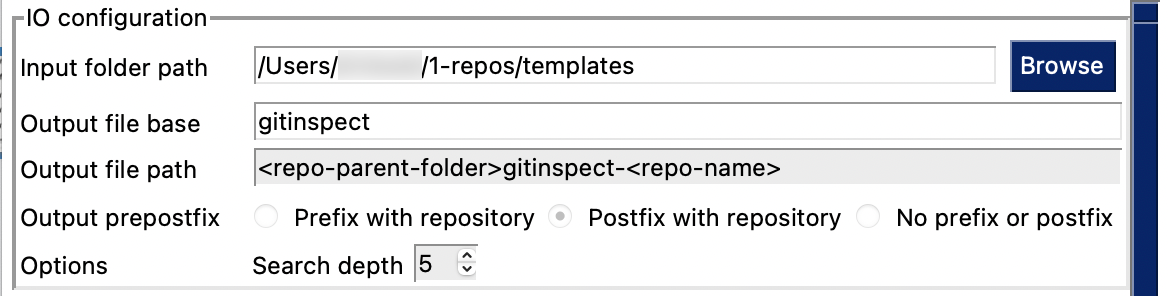
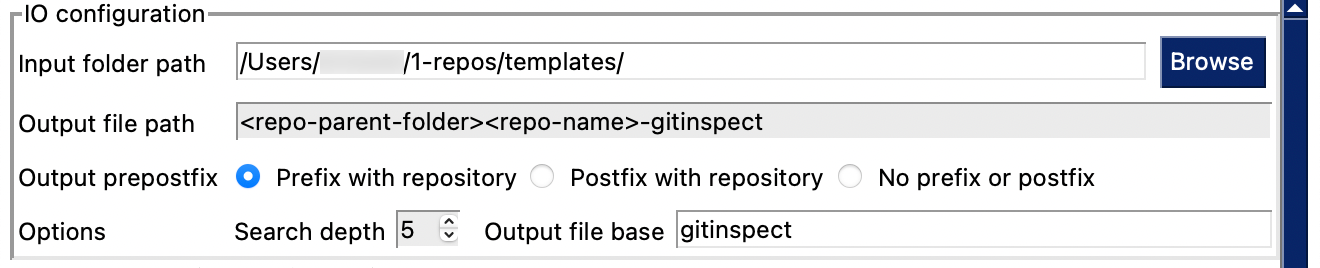
Complete redesign GUI window
- First step in updating text

Changed region(s): [[0.0, 0.0, 1.0, 1.0]]

diff --git a/docs/source/gui.rst b/docs/source/gui.rst
@@ -11,47 +11,62 @@ Below, a picture of the complete GUI on macOS.
 
 The two main parts of the GUI are:
 
-1. The grey input part at the top where the options are defined. This part can
+1. The input part where the options are defined. This part can
    be scrolled up and down using the top scroll bar at the right.
-2. The white console output part, where progress output is presented to the user
+2. The console output part, where progress output is presented to the user
    while the repositories are analysed. The console has its own scrollbar.
 
 Top row buttons
 ---------------
-This row is unique to the GUI. It has the following buttons:
 
 Execute
-  Execute the analysis, using the parameters given in the GUI.
-
-Save
-  Save all settings specified in the GUI.
+  Start the analysis, using the parameters given in the GUI.
 
 Clear
-  Clear the console, which is the textual output box at the end of the GUI.
+  Clear the console, the textual output box at the bottom.
+
+Save
+  Save all settings specified in the GUI to the currently active settings file.
+
+Save As
+  Save the settings specified in the GUI to a file. This file becomes the
+  currently active settings file for the :guilabel:`Save` button.
+
+Load
+  Open a browse dialog to select a settings file to load. This file becomes the
+  currently active settings file.
+
+Reset
+  Reset all options to their default values and reset the location of the
+  currently active settings file to its default, operating system dependent,
+  location.
+
+About
+  Opens a dialog with information about the application.
 
 Help
-  Presents a link to this online documentation to the user.
+  Prints a few lines op help output in the console.
 
 Exit
-  Leave the GUI
+  Leave the GUI.
 
 Percentage box
-  The percentage box at the far right, has small up and down triangles to
-  increase or decrease the percentage. It defines the percentage of the total
-  GUI, that is taken up by the input part of the GUI. The console takes up the
-  remaining percentage.
+  The percentage box at the far right has small up and down triangles to
+  increase or decrease the maximum percentage of the height of the total GUI
+  window that is taken up by the input part. The console takes up the remaining
+  percentage.
 
-  Adjusting the percentage box immediately updates the height of the input and
-  console parts of the GUI. The height and width of the GUI can be changed by
-  dragging the edges of the the GUI. The height of the input and console parts
-  are updated when the height of the GUI has become stable after dragging.
+  When the height of the GUI window is changed by dragging the top or bottom
+  edges of the window, the height of the input part is kept unchanged while
+  dragging. When the window height has become stable after dragging, the height
+  of the input part is adjusted to the percentage value.
 
 
 IO configuration
 ----------------
 Input folder path
-  Enter a folder path in the text box, or select one using the :guilabel:`Browse`
-  button.
+  Enter one or more comma separated folder paths in the text box, or select one
+  using the :guilabel:`Browse` button.
 
 .. _input-is-repo:
 
@@ -63,14 +78,14 @@ If the input folder path is a repository, that repository is analysed and no
 search for addtional repositories takes place.
 
 Output file base
-  The output filename, without extension and without parents. Default:
-  ``gitinspect``.
+  The output filename without extension and without directories, default
+  ``gitinspect``. See bottom right of the IO configuration panel.
 
 Output file path
-  Output file path depends on selected output prepostfix (see next option). In
-  the example figure, the input folder path is the path of the repository
-  gitinspectorgui. Depending on the selected pre or postfix, the output file
-  path is:
+  The output file path depends on the selected output prepostfix (see next
+  option). In the example figure, the input folder path is the path of the
+  repository gitinspectorgui. Depending on the selected pre or postfix, the
+  output file path is:
 
   * :guilabel:`Postfix with repo`: ``/Users/.../1-repos/grading/gitinspectorgui-gitinspect``.
   * :guilabel:`Prefix with repo`: ``/Users/.../1-repos/grading/gitinspect-gitinspectorgui``.
@@ -127,29 +142,84 @@ Search depth
   that is searched for repositories, *default* ``5``. For depth ``1``, only
   the repository in the input folder path, if present, is analysed.
 
+.. _output-formats:
 
-Output format excel
--------------------
-Selects whether output for the :guilabel:`excel` format is generated. See
-:doc:`output-formats`.
+Output generation and formatting
+--------------------------------
+Selects for which file formats output is generated. Available choices are
+:guilabel:`auto`, :guilabel:`html`, :guilabel:`excel` and :guilabel:`text`. When
+option :guilabel:`auto` is selected, the other output formats are deselected.
+When one or more of the other output formats are selected, the :guilabel:`auto`
+format is deselected.
+
+Assuming that the :ref:`viewer option <general-config>` is set to
+:guilabel:`auto`, the output for the :guilabel:`auto` output format is as
+follows:
+
+- Single repositories are opened in the special purpose webviewer without
+  generating any output file.
+
+- For multiple repositories, output is generated in html files which are opened
+  in the system's web browser, each one in its own tab. Up to a maximum of ten
+  tabs can be opened.
+
+When one or more of the options :guilabel:`html`, :guilabel:`excel` and
+:guilabel:`text` are selected, output files are generated in the selected
+format(s). Html output files are opened in the system's web browser, each in a
+separate tab. The other output formats are opened in the default application for
+that format, but in the case of Excel or text, only for output of a single
+repository.
 
 Options
 ^^^^^^^
+Show renames
+  Show previous file names and alternative author names and emails in the
+  output.
+
+  Some authors use multiple names and emails in various commits.
+  Gitinspectorgui can detect this if there is overlap in either the name or
+  email in author-email combinations in commits. If show-renames is active, all
+  names and emails of each author are shown. If inactive, only a single name and
+  email are shown per author.
+
+  For files that have been renamed at some point in their history, all previous
+  names are shown in the output.
+
 Scaled percentages
   For each column with output in percentages, e.g. :guilabel:`Changes %`, add a
   column :guilabel:`Scaled changes %`, which equals the value of
   :guilabel:`Changes %` multiplied by the number of authors in the repository.
 
+Blame color all
+
+
 Skip blame
-  Do not output Excel blame sheets, as explained below.
+  Do not output Excel blame sheets.
 
-Subfolder
-  Restrict analysis of the files of the repository to the files in this folder
-  and its subfolders.
+A blame worksheet or html tab shows the contents of each file and indicates for
+each line in the file in which commit the line was last changed, at which date
+and by which author.
 
-File selection
-^^^^^^^^^^^^^^
-Show N files
+Viewer
+  Select :guilabel:`auto` or :guilabel:`none`.
+
+  * :guilabel:`auto`: open the viewer for the selected output format as
+    specified in the :ref:`output-formats` section.
+
+  * :guilabel:`none`: never open any viewer.
+
+Debug
+
+Dry run
+
+List extensions
+  Output a list of file extensions used in the current branch of the
+  repository.
+
+
+Inclusions and exclusions
+-------------------------
+N files
   Generate output for the first `N` files with the highest number of insertions
   for each repository. For excel, this results in four worksheets:
   :guilabel:`Authors`, :guilabel:`Authors-Files` and :guilabel:`Files`. The
@@ -161,7 +231,7 @@ Show N files
   In addition, for each of the N files, a blame worksheet is generated, unless
   the option :guilabel:`Skip blame` is active, see :ref:`blame-sheets-gui`.
 
-Show files
+File pattern
   Show only files matching the specified pattern. If a pattern is
   specified, it takes priority over the value of N in option :guilabel:`Show N
   files`, which is then ignored. When a pattern is present, the :guilabel:`Show
@@ -169,13 +239,31 @@ Show files
 
   To show all files, use the pattern ``.*``.
 
+Subfolder
+  Restrict analysis of the files of the repository to the files in this folder
+  and its subfolders.
+
+Since
+	Enter a date in the text box in the format 31/12/2022, or select one using the
+	:guilabel:`.` button. Only show statistics for commits more recent than the
+	given date.
+
+Until
+	Only show statistics for commits older than the given date.
+
+Extensions
+    A comma separated list of file extensions to include when computing
+    statistics. The default extensions used are: java, c, cc, cpp, h, hh,
+    hpp, py, glsl, rb, js, sql, cif, tooldef.
+
+    Specifying a single ``*`` asterisk character includes files with no extension.
+    Specifying two consecutive ``**`` asterisk characters includes all files
+    regardless of extension.
+
+
+
 .. _blame-sheets-gui:
 
-Excel blame worksheets
-^^^^^^^^^^^^^^^^^^^^^^
-A blame worksheet shows the contents of each file and indicates for each line
-in the file in which commit the line was last changed, at which date and by
-which author.
 
 Output format text
 ------------------
@@ -183,15 +271,12 @@ Selects whether output for the :guilabel:`text` format is generated. See
 :doc:`output-formats`. For this output format, output from multiple repositories
 is always merged as if coming from a single repository.
 
-Extensions list
-  Output a list of file extensions used in the current branch of the
-  repository.
 
 
-.. _general_config:
+.. _general-config:
 
-General configuration
----------------------
+Analysis options
+----------------
 Deletions
   Include a column for Deletions in the output. This does not affect the blame
   output, because deleted lines cannot be shown. The default is not to include
@@ -227,25 +312,7 @@ Comments
 Copy move
   .. include:: opt-hard.inc
 
-Months
-	Show all statistical information in weeks instead of in months.
 
-Since
-	Enter a date in the text box in the format 31/12/2022, or select one using the
-	:guilabel:`.` button. Only show statistics for commits more recent than the
-	given date.
-
-Until
-	Only show statistics for commits older than the given date.
-
-Extensions
-    A comma separated list of file extensions to include when computing
-    statistics. The default extensions used are: java, c, cc, cpp, h, hh,
-    hpp, py, glsl, rb, js, sql, cif, tooldef.
-
-    Specifying a single ``*`` asterisk character includes files with no extension.
-    Specifying two consecutive ``**`` asterisk characters includes all files
-    regardless of extension.
 
 
 .. _exclusion_pattern:

diff --git a/docs/source/output-formats.rst b/docs/source/output-formats.rst
@@ -6,20 +6,32 @@ information on this option.
 
 Available output formats
 ------------------------
-:guilabel:`excel`
-  Excel output is generated in the form of a table. Tables are suited for
-  sorting and filtering the analysis results. Each column header in the table
-  has a triangle button, which activates a dropdown menu for sorting and
-  filtering.
+:guilabel:`html` and :guilabel:`excel`
+  Output is generated in the form of tables and saved in a file per repository.
 
-  When multiple repositories are analysed simultaneously, excel presents the
-  data for each repository separately from the other repositories, using an
-  additional column for the repository name. This is unlike the text, html, json
-  and xml options, where the results for all repositories are merged.
+  :guilabel:`html` output is suitable for viewing in a web browser. For single
+  repositories and for ten or fewer multiple repositories, the output is shown
+  in a single window in the system web browser. For multiple repositories, each
+  repository is shown in a separate tab.
+
+  :guilabel:`Excel` tables are very similar to :guilabel:`html` tables, but have
+  more options. Each column header in an excel table has a triangle button which
+  activates a dropdown menu for sorting and filtering. For single repositories,
+  the output is opened in Excel for viewing.
+
+:guilabel:`auto`
+  The output for option :guilabel:`auto` is always :guilabel:`html`. The exact
+  form depends on the number of repositories analysed:
+
+  - For single repositories, the :guilabel:`auto` option  is the only case where
+    no file output is generated. The generated html output is shown in a web
+    viewer (default for CLI).
+  - For multiple repositories, the :guilabel:`auto` option generates
+    :guilabel:`html` output which is saved in a file and shown in the default
+    system browser (default for CLI).
 
 :guilabel:`text`
-	Plain text with some very simple ANSI formatting, suitable for console output.
-	This is the default output format of the CLI.
+	Plain text with some very simple ANSI formatting.
 
 
 Output columns
@@ -27,7 +39,6 @@ Output columns
 
 Default columns
 ^^^^^^^^^^^^^^^
-
 We discuss the columns that are present in the output by default in the text
 output and in the Authors sheet of the Excel output.
 
